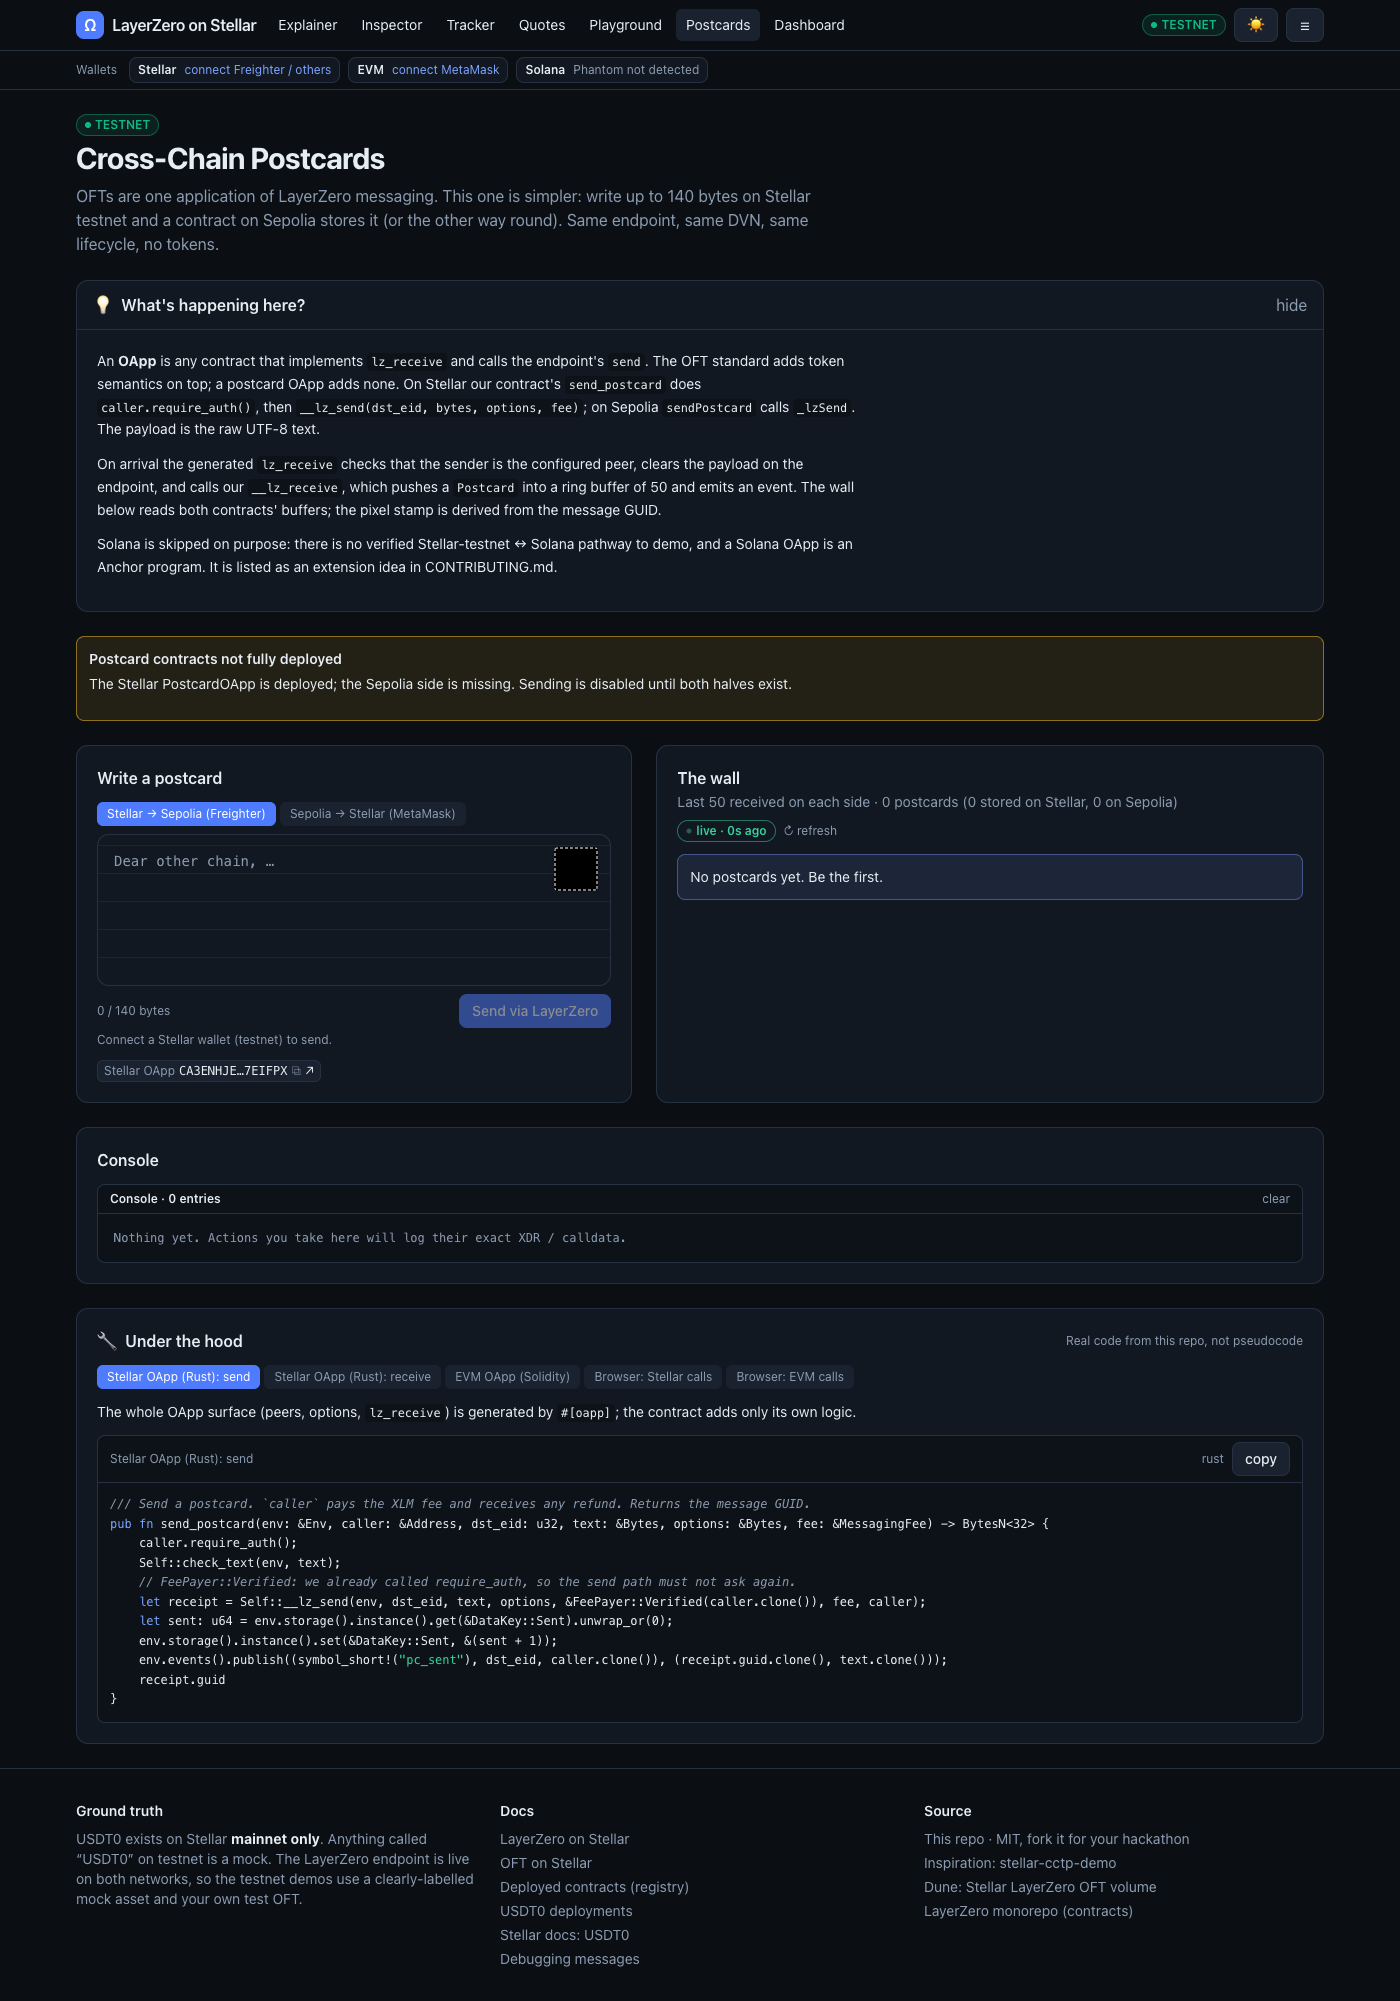
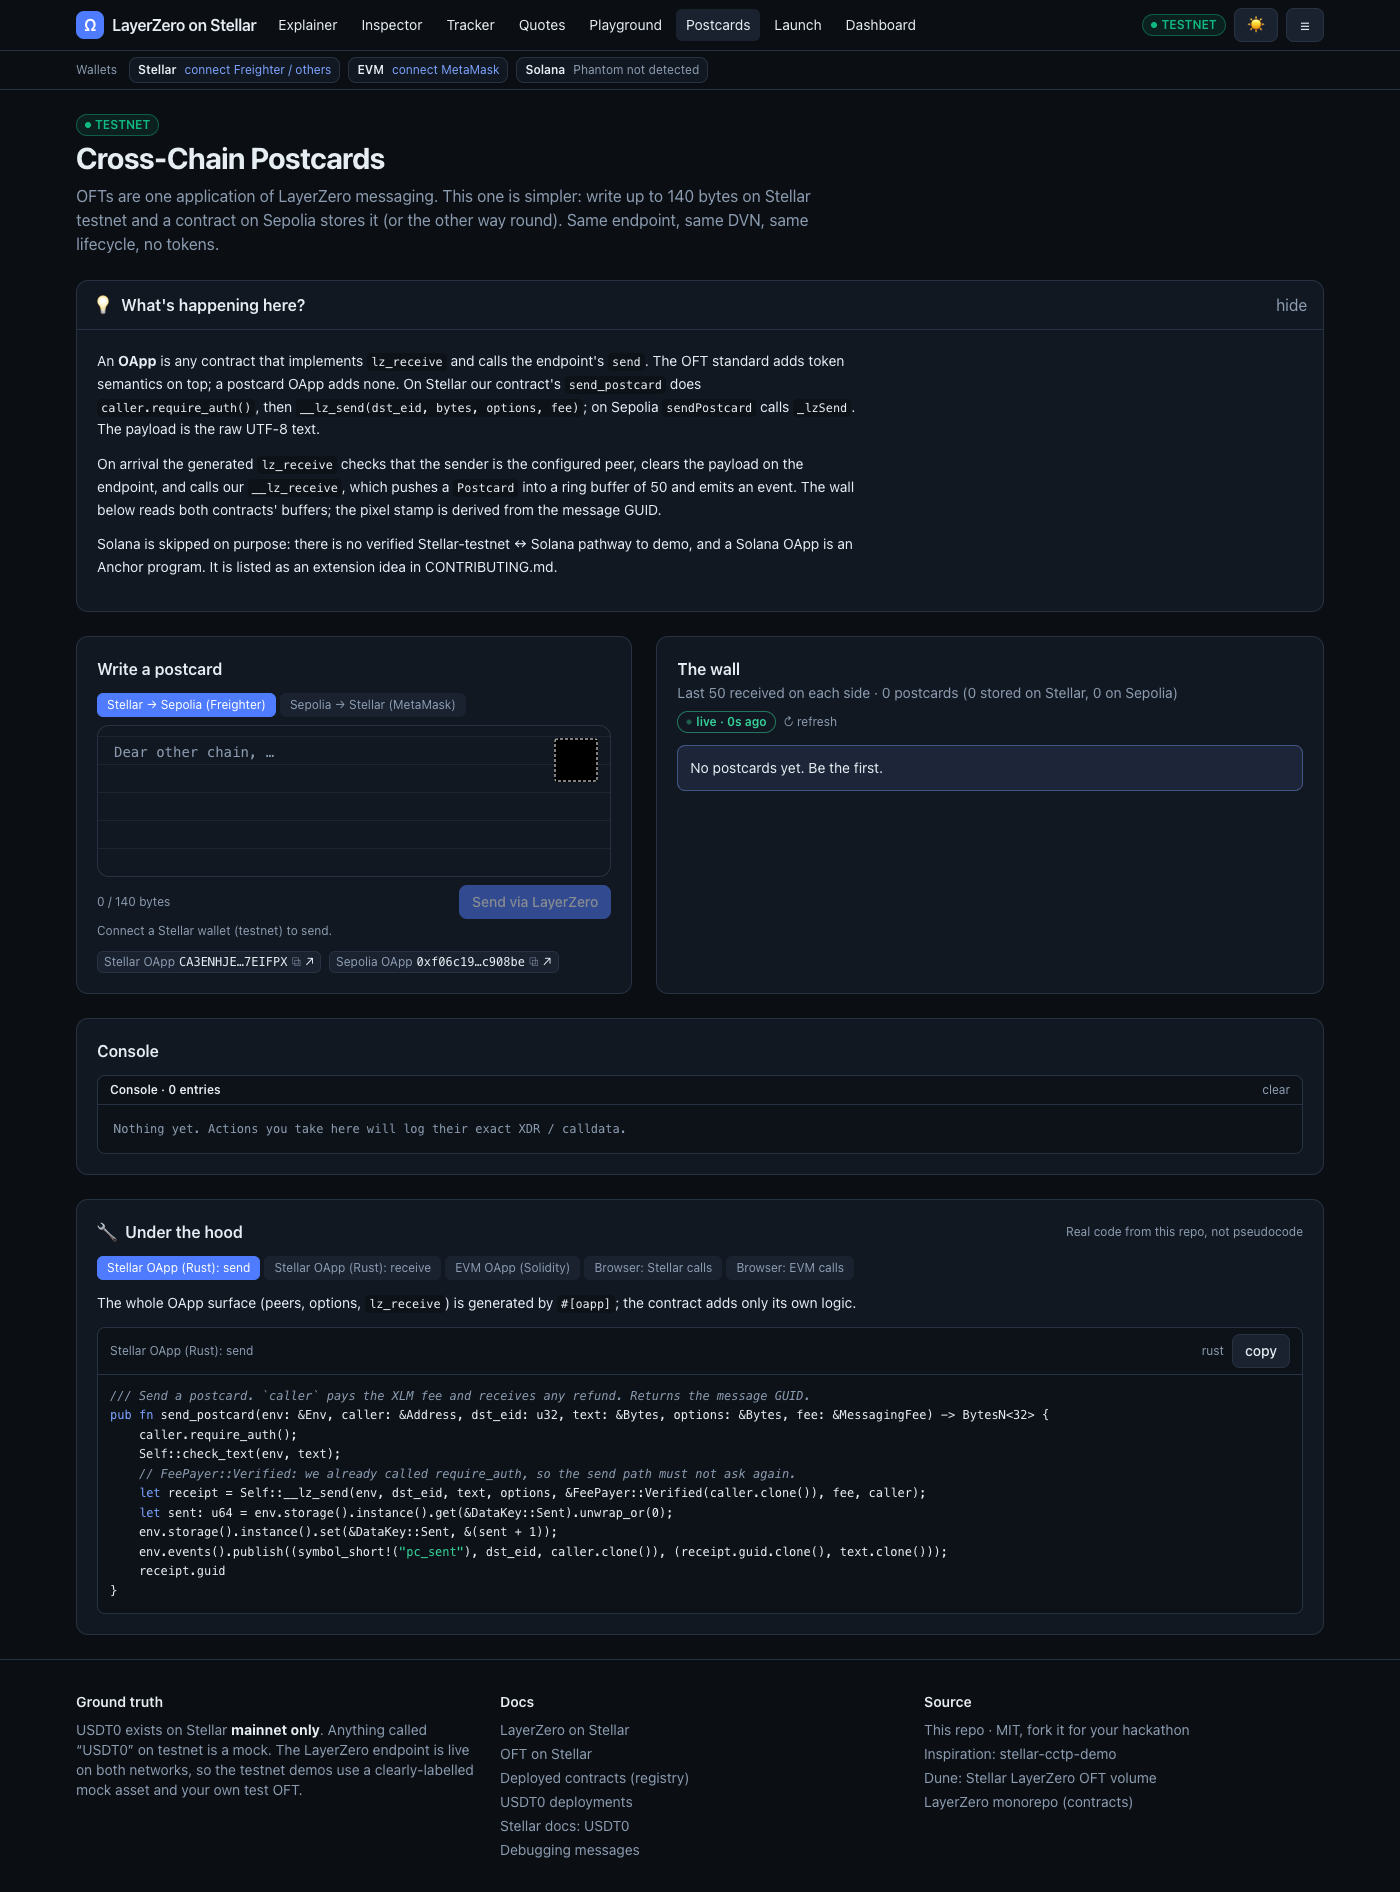
Fix PostcardOApp to prepend enforced options; redeploy and rewire it
A bare OApp does not combine enforced options for you (the OFT does, inside
quote_send/send). Empty caller options reached ULN302 and failed with
error #1114 on the first end-to-end postcard. quote_postcard and
send_postcard now call combine_options. New Stellar PostcardOApp deployed,
peers/options/ULN config set, Sepolia peer updated. Adds a Launchpad
end-to-end script (full launch + transfer with script keys) and a
postcard-only e2e mode; documents the live site.

diff --git a/scripts/redeploy-postcard.ts b/scripts/redeploy-postcard.ts
@@ -1,0 +1,57 @@
+/**
+ * Redeploy the Stellar PostcardOApp from the current contracts/wasm/postcard_oapp.wasm
+ * and re-wire it (Stellar peer/options/ULN config + the Sepolia PostcardOApp's peer).
+ * Used after fixing the contract; keeps the Sepolia side.
+ */
+import { Keypair } from '@stellar/stellar-sdk';
+import { readFileSync, writeFileSync } from 'node:fs';
+import { resolve } from 'node:path';
+import { createPublicClient, createWalletClient, http, type Address, type Hex } from 'viem';
+import { privateKeyToAccount } from 'viem/accounts';
+import { sepolia } from 'viem/chains';
+import { EVM_TESTNETS } from '../src/config/networks';
+import { STELLAR_FALLBACK } from '../src/config/layerzero.fallback';
+import { sc } from '../src/lib/stellar/scval';
+import { encodeLzReceiveOption } from '../src/lib/layerzero/options';
+import { evmAddressToBytes32, hexToBytes, bytesToHex } from '../src/lib/hex';
+import { stellarAddressToBytes32, stellarAddressToHex } from '../src/lib/stellar/strkey';
+import { CONFIG_TYPE, encodeOAppUlnConfig, requiredDvnsOverride, setConfigParamScVal } from '../src/lib/stellar/endpoint';
+import { envVar, log, ROOT } from './lib/env';
+import { deployContract, invoke, uploadWasm } from './lib/stellar-node';
+
+const depPath = resolve(ROOT, 'src/config/testnet-deployment.json');
+const dep = JSON.parse(readFileSync(depPath, 'utf8'));
+const statePath = resolve(ROOT, 'scripts/.state/testnet-deploy.json');
+const state = JSON.parse(readFileSync(statePath, 'utf8'));
+const deployer = Keypair.fromSecret(envVar('STELLAR_DEPLOYER_SECRET')!);
+const { endpointV2: ENDPOINT, sendUln302: ULN } = STELLAR_FALLBACK.testnet;
+const DVN: string = dep.registry.activeDvn;
+const evmPostcard = dep.evm.postcard as Address;
+const eid = EVM_TESTNETS.sepolia.eid;
+
+const wasmHash = await uploadWasm(resolve(ROOT, 'contracts/wasm/postcard_oapp.wasm'), deployer);
+const { contractId: postcard } = await deployContract(wasmHash, deployer, [sc.address(deployer.publicKey()), sc.address(ENDPOINT), sc.address(deployer.publicKey())]);
+log(`new PostcardOApp ${postcard}`);
+await invoke(postcard, 'set_peer', [sc.u32(eid), sc.bytes(evmAddressToBytes32(evmPostcard)), sc.address(deployer.publicKey())], deployer);
+await invoke(postcard, 'set_enforced_options', [sc.vec([sc.struct({ eid: sc.u32(eid), msg_type: sc.u32(1), options: sc.bytes(hexToBytes(encodeLzReceiveOption(200_000n))) })]), sc.address(deployer.publicKey())], deployer);
+const config = encodeOAppUlnConfig(requiredDvnsOverride([DVN]));
+await invoke(ENDPOINT, 'set_config', [sc.address(deployer.publicKey()), sc.address(postcard), sc.address(ULN), sc.vec([setConfigParamScVal({ eid, configType: CONFIG_TYPE.SEND_ULN, config }), setConfigParamScVal({ eid, configType: CONFIG_TYPE.RECEIVE_ULN, config })])], deployer);
+
+const account = privateKeyToAccount(envVar('EVM_DEPLOYER_PRIVATE_KEY') as Hex);
+const rpc = envVar('EVM_RPC_URL') ?? EVM_TESTNETS.sepolia.rpcUrl;
+const pub = createPublicClient({ chain: sepolia, transport: http(rpc) });
+const wallet = createWalletClient({ account, chain: sepolia, transport: http(rpc) });
+const peerAbi = [{ type: 'function', name: 'setPeer', stateMutability: 'nonpayable', inputs: [{ name: '_eid', type: 'uint32' }, { name: '_peer', type: 'bytes32' }], outputs: [] }] as const;
+const h = await wallet.writeContract({ address: evmPostcard, abi: peerAbi, functionName: 'setPeer', args: [40600, stellarAddressToHex(postcard)] });
+await pub.waitForTransactionReceipt({ hash: h });
+log(`Sepolia PostcardOApp.setPeer(40600, new) tx ${h}`);
+
+dep.stellar.postcard = postcard;
+dep.stellar.postcardHex = bytesToHex(stellarAddressToBytes32(postcard));
+dep.wasm.files['postcard_oapp.wasm'] = JSON.parse(readFileSync(resolve(ROOT, 'contracts/wasm/manifest.json'), 'utf8')).files['postcard_oapp.wasm'];
+dep.deployedAt = new Date().toISOString();
+writeFileSync(depPath, JSON.stringify(dep, null, 2) + '\n');
+state.stellar.postcard = postcard;
+state.stellar.wasm.postcard_oapp = wasmHash;
+writeFileSync(statePath, JSON.stringify(state, null, 2));
+log('deployment file updated');

diff --git a/contracts/stellar/postcard-oapp/src/lib.rs b/contracts/stellar/postcard-oapp/src/lib.rs
@@ -13,6 +13,7 @@ use common_macros::{contract_impl, lz_contract};
 use endpoint_v2::{MessagingFee, Origin};
 use oapp::{
     oapp_core::{init_ownable_oapp, OAppCore},
+    oapp_options_type3::OAppOptionsType3,
     oapp_receiver::{LzReceiveInternal, OAppReceiver},
     oapp_sender::{FeePayer, OAppSenderInternal},
 };
@@ -20,6 +21,8 @@ use oapp_macros::oapp;
 use soroban_sdk::{contracterror, contracttype, panic_with_error, symbol_short, Address, Bytes, BytesN, Env, Vec};
 
 pub const MAX_TEXT_LEN: u32 = 140;
+/// Message type used for enforced options (1 = SEND, like OFTs).
+pub const SEND_MSG_TYPE: u32 = 1;
 pub const MAX_POSTCARDS: u32 = 50;
 
 #[contracterror]
@@ -63,10 +66,12 @@ impl PostcardOApp {
         init_ownable_oapp::<Self>(env, owner, endpoint, delegate);
     }
 
-    /// Price a postcard to `dst_eid`. Options must be type-3 (the enforced options are appended by the OApp).
+    /// Price a postcard to `dst_eid`. `options` may be empty: the OApp prepends its enforced options
+    /// (ULN302 rejects an empty options blob, which is exactly what enforced options are for).
     pub fn quote_postcard(env: &Env, dst_eid: u32, text: &Bytes, options: &Bytes, pay_in_zro: bool) -> MessagingFee {
         Self::check_text(env, text);
-        Self::__quote(env, dst_eid, text, options, pay_in_zro)
+        let options = Self::combine_options(env, dst_eid, SEND_MSG_TYPE, options);
+        Self::__quote(env, dst_eid, text, &options, pay_in_zro)
     }
 
     // snippet:start sendPostcardRust
@@ -74,8 +79,9 @@ impl PostcardOApp {
     pub fn send_postcard(env: &Env, caller: &Address, dst_eid: u32, text: &Bytes, options: &Bytes, fee: &MessagingFee) -> BytesN<32> {
         caller.require_auth();
         Self::check_text(env, text);
+        let options = Self::combine_options(env, dst_eid, SEND_MSG_TYPE, options);
         // FeePayer::Verified: we already called require_auth, so the send path must not ask again.
-        let receipt = Self::__lz_send(env, dst_eid, text, options, &FeePayer::Verified(caller.clone()), fee, caller);
+        let receipt = Self::__lz_send(env, dst_eid, text, &options, &FeePayer::Verified(caller.clone()), fee, caller);
         let sent: u64 = env.storage().instance().get(&DataKey::Sent).unwrap_or(0);
         env.storage().instance().set(&DataKey::Sent, &(sent + 1));
         env.events().publish((symbol_short!("pc_sent"), dst_eid, caller.clone()), (receipt.guid.clone(), text.clone()));

diff --git a/README.md b/README.md
@@ -87,7 +87,9 @@ pnpm deploy:testnet --evm          # TestOFT + PostcardOApp on Sepolia, setPeer(
                                    #   set_peer, set_enforced_options, endpoint.set_config (send + receive ULN naming the active DVN)
 pnpm e2e:testnet                   # script-signed proof: faucet drip → tUSDT0 Stellar → Sepolia + a postcard, tracked to DELIVERED
 pnpm e2e:testnet --reverse         # Sepolia → Stellar
+pnpm e2e:testnet --postcard        # only a postcard Stellar → Sepolia
 pnpm e2e:testnet --track <tx>      # follow an existing message without sending
+pnpm exec tsx --tsconfig tsconfig.node.json scripts/e2e-launchpad.ts CODE LockUnlock   # replay the Launchpad flow with script keys, end to end
 pnpm exec tsx --tsconfig tsconfig.node.json scripts/execute-sepolia.ts <stellar tx>   # deliver a verified message yourself
 ```
 
@@ -102,13 +104,17 @@ pnpm exec tsx --tsconfig tsconfig.node.json scripts/execute-sepolia.ts <stellar 
 | SAC-manager (SAC admin) | `CBDTSASNBUEAUBJVZL5TCSWNL7GMJ63MFFGJZNPVFAJMHHLELZ73BGM2` |
 | OFT (`MintBurn`) | `CB4M3EC45CYVUYHRUY6T3UYBCM3E5JVA7SQF5OTIQY2IR3KHL3RT42GE` |
 | Faucet (1,000 tUSDT0 per drip, ~1 h cooldown) | `CBFDW3L2CG7RUANKFSLGIOREVMXLW52EKLARBSIVGVP424LMNRNHLPUS` |
-| PostcardOApp (Stellar) | `CA3ENHJE57OE4NIUWRMCGA3NJ355NV2YPX6CMIVIUQZG77KZBA7EIFPX` |
+| PostcardOApp (Stellar) | `CCGXQ2GUT4K5C4FZGIB3X4H6ZFUSFR32E3SR36T7CFVGCSSS24RTINWQ` |
 | TestOFT (Sepolia, 6 decimals) | `0x3ae0ed1dffacc319af52a8fe3fa93638d70e6e8e` |
 | PostcardOApp (Sepolia) | `0xf06c1948d85e7539c6e4b424d620831581c908be` |
 
 Shared: endpoint `CALTBA5S…`, ULN `CCMLPCAW…`, DVN `CB7EWGPR…` (LayerZero Labs); Sepolia endpoint `0x6EDCE654…`; the OApps carry per-OApp send and receive ULN configs naming the active DVN, enforced options of 200k gas towards Sepolia and 500k towards Stellar.
 
 The mock mirrors USDT0's admin model on purpose: issuer locked, SAC admin = SAC-manager, new supply only under `MINTER_ROLE` (held by the OFT and by the Faucet, so no key is ever needed in the browser). To see the other OFT mode, `LockUnlock` (a token whose home chain is Stellar: the OFT holds the reserve and the other chain mints), launch one on the Launchpad page.
+
+## Live site
+
+https://kaankacar.github.io/stellar-layerzero-demos/ (GitHub Pages, built by `.github/workflows/pages.yml` on every push to `main`). Deep links return the SPA through `404.html`, so the HTTP status is 404 while the page renders normally.
 
 ## Known caveats
 
@@ -126,6 +132,7 @@ The mock mirrors USDT0's admin model on purpose: issuer locked, SAC admin = SAC-
 - **Attribution.** USDT0 is built and operated by **Everdawn Labs**; USDT is Tether's asset.
 - **Solana.** Phantom is supported in the wallet bar and for Tracker lookups only. No Solana Postcards leg: there is no verified Stellar-testnet ↔ Solana pathway, and a Solana OApp is an Anchor program (see CONTRIBUTING for the extension idea).
 - **HyperCore** is listed by USDT0 but has no EID in the registry; it appears as "no EID" in the peers table.
+- **An OApp must combine enforced options itself.** The OFT does it inside `quote_send`/`send`; a bare OApp built on the skeleton does not. Our first PostcardOApp passed the caller's (empty) options straight to the endpoint and ULN302 rejected them with error `#1114`; the fix is `Self::combine_options(env, dst_eid, msg_type, options)` before `__quote` / `__lz_send` (see `contracts/stellar/postcard-oapp/src/lib.rs`). Found by the end-to-end script, not by the compiler.
 
 ## Project layout
 
